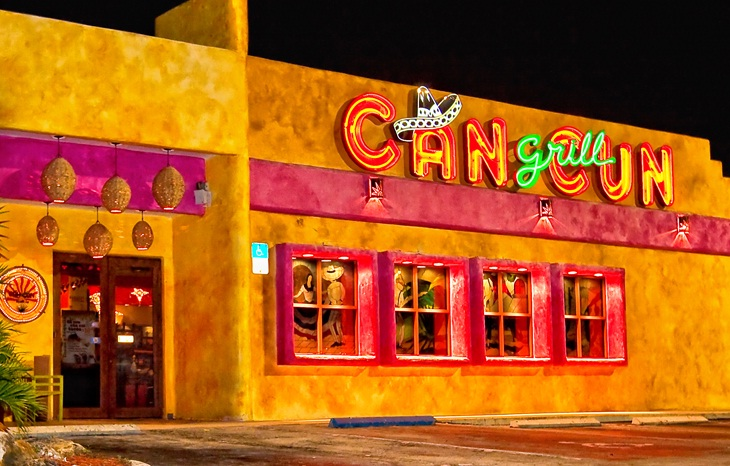
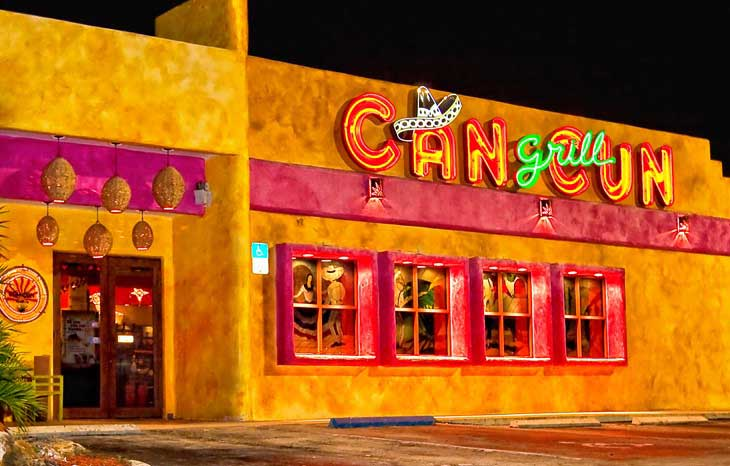
Resized Images
Edited a few things includng images

diff --git a/index.html b/index.html
@@ -19,14 +19,14 @@
     <li><a href="#careers">Careers</a></li>
 </div>
 <div id="topphoto">
-		<img src="images/rum1.png" alt="rum">
+		<img src="images/rum1.jpg" alt="rum">
 </div>
 <div id="about" align="Center">
 	<li>ABOUT US</li>
 	<p>Our Mexican born owner and Executive Chef, Martin<br> Cardenas, upholds the traditions of the motherland with<br> every aspect of Cancun Grill, especially the annual Cinco<br> de Mayo celebration at Cancun Grill. If you want to celebrate<br> in the true Mexican style and embrace what Cinco de Mayo<br> is all about, come and join us! We offer authentic dishes,<br> music and margaritas, Mexican beer, mariachis and other<br> surprises for our friends of all ages to enjoy.<p>
 </div>
 <div id="map">
-	<img src="images/Screen Shot 2017-11-12 at 10.11.40 PM.png">
+	<img src="images/Screen Shot 2017-11-12 at 10.11.40 PM.jpg">
 </div>
 <div id="map2">
 			<p>15406 NW 77th Ct, Hialeah, FL 33016<br>(305) 826-8571</p>
@@ -36,9 +36,9 @@
 </div>
 <div id="table">
 	<li>MENU</li>
-	<img src="menu images/guacamole.png" alt="Plate of guacamole and chips">
-	<img src="menu images/burritos.png" alt="burritos on a plate">
-    <img src="menu images/nachos.png" alt="nachos on a plate">
+	<img src="menu images/guacamole.jpg" alt="Plate of guacamole and chips">
+	<img src="menu images/burritos.jpg" alt="burritos on a plate">
+    <img src="menu images/nachos.jpg" alt="nachos on a plate">
 </div>
 <div id="des1">
 	<li><strong>Guacamole $9.50</strong><br>Avocados, onions,jalapeños,cilantro, tomatoes and fresh lime juice</li>
@@ -46,9 +46,9 @@
 	<li><strong>Nachos $11</strong><br>Tortilla chips with refried beans, mozzarella guacamole, sour cream and pico de gallo. Add steak, chicken or shrimp $2.50</li>
 </div>
 <div id="images2">
-	<img src="menu images/Tacos.png" alt="chicken tacos" width="300px" height="300px">
-	<img src="menu images/quesadillas.png" alt="quesadilla" width="300px" height="300px">
-	<img src="menu images/burgers.png" alt="burger" width="300px" height="300px">
+	<img src="menu images/Tacos.jpg" alt="chicken tacos">
+	<img src="menu images/quesadillas.jpg" alt="quesadilla">
+	<img src="menu images/burgers.jpg" alt="burger">
 </div>
 <div id="des2">
 		<li><strong>Tacos $10</strong><br>Three tacos served with avocado salsa, cilantro, onions, lime, refried beans  and Mexican rice.</li>
@@ -56,9 +56,9 @@
 		<li><strong>Burger $14</strong><br>Brioche bun with grilled prime beef, gouda cheese, avocado mayo, grilled onions and tomatoes served with fries and pickled vegetables.</li>
 </div>
 <div id="images3">
-	<img src="menu images/fajitas.png" alt="fajitas" width="300px" height="300px">
-	<img src="menu images/grilled chicken.png" alt="grilled chicken" width="300px" height="300px">
-    <img src="menu images/steak.png" alt="bowl of soup" width="300px" height="300px">
+	<img src="menu images/fajitas.jpg" alt="fajitas">
+	<img src="menu images/grilled-chicken.jpg" alt="grilled chicken">
+    <img src="menu images/steak.jpg" alt="bowl of soup">
 </div>
 <div id="des3"> 
 	<li><strong>Fajitas $14</strong><br>Sereved with sour cream, pico de gallo, guacamole, warm tortillas, refried beans and mexican rice. </li>
@@ -66,9 +66,9 @@
 	<li><strong>Skirt Steak $17</strong><br>Grilled skirt steak roasted in onions, poblano peppers and served with refried beans and mexican rice.</li>
 </div>
 <div id="images4">
-	<img src="menu images/soup.png" alt="fajitas" width="300px" height="300px">
-	<img src="menu images/margarita.png" alt="grilled chicken" width="300px" height="300px">
-    <img src="menu images/flan.png" alt="bowl of soup" width="300px" height="300px">
+	<img src="menu images/soup.jpg" alt="fajitas">
+	<img src="menu images/margarita.jpg" alt="grilled chicken">
+    <img src="menu images/flan.jpg" alt="bowl of soup">
 </div>
 <div id="des4">
 	<li><strong>Aztec Soup $6.25</strong><br>Mexican style chicken soup served with Cheese, avocado and crispy tortillas.</li>
@@ -77,7 +77,7 @@
 </div>
 <div id="reviews">
 	<li>TESTIMONIALS</li>
-	<img src="images/review2.png"><br>
+	<img src="images/review1.jpg"><br>
 	<img src="images/review3.png"><br>
 	<img src="images/review4.png">
 </div>

diff --git a/myStyler.css b/myStyler.css
@@ -11,7 +11,7 @@ body
 {
 	border: 1px solid #ffffff;
 	width: 768px;
-	height:100%;
+	height:100;
 	margin: 0 auto;
 }
 #logo img
@@ -35,7 +35,7 @@ body
 #topphoto img
 {
 	top: 20px;
-	height:600px;
+	height:515px;
 	width:768px;
 }
 #about li
@@ -204,15 +204,11 @@ body
 #footNav 
 {
     width: auto;
-	height: 85px;
+	height: 130px;
 	background-color:#55734F;
 	color: aliceblue;
 	bottom:-10px;
 	font-family: Gotham, "Helvetica Neue", Helvetica, Arial, "sans-serif";
 	font-size: 34px;
 	text-align: center;
-}
-#footer
-{
-	bottom:-10px;
 }
